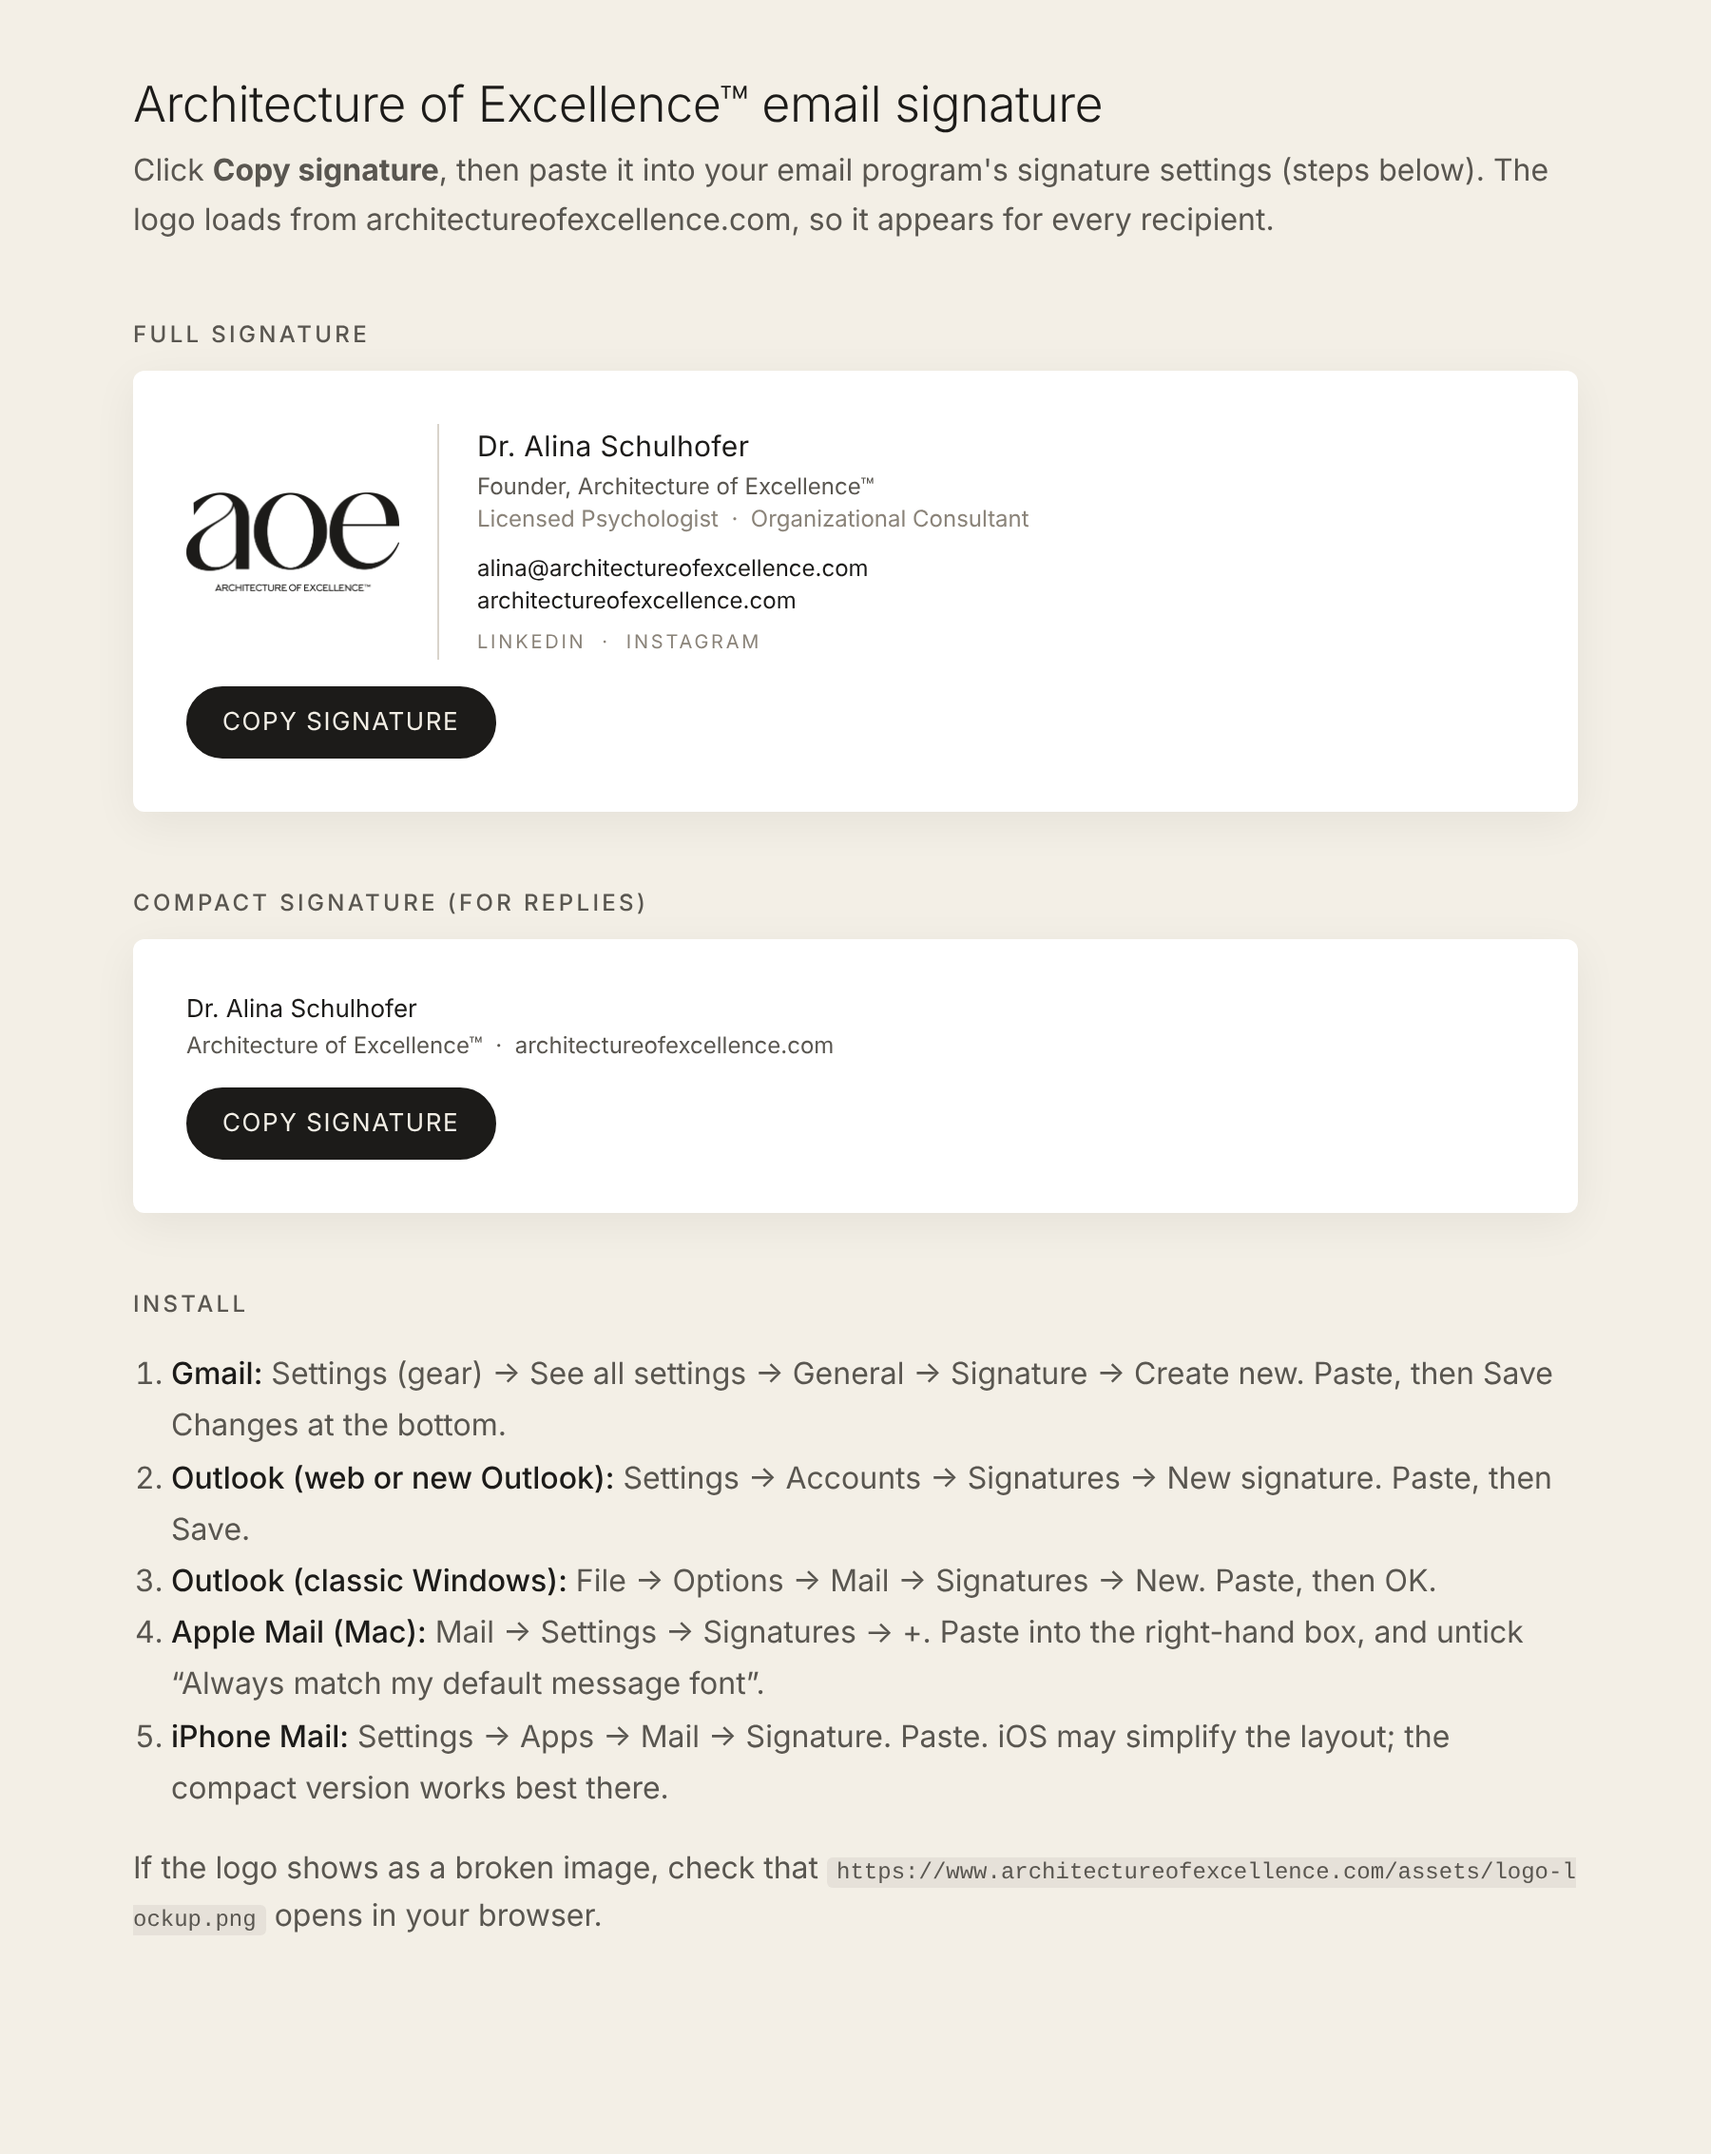
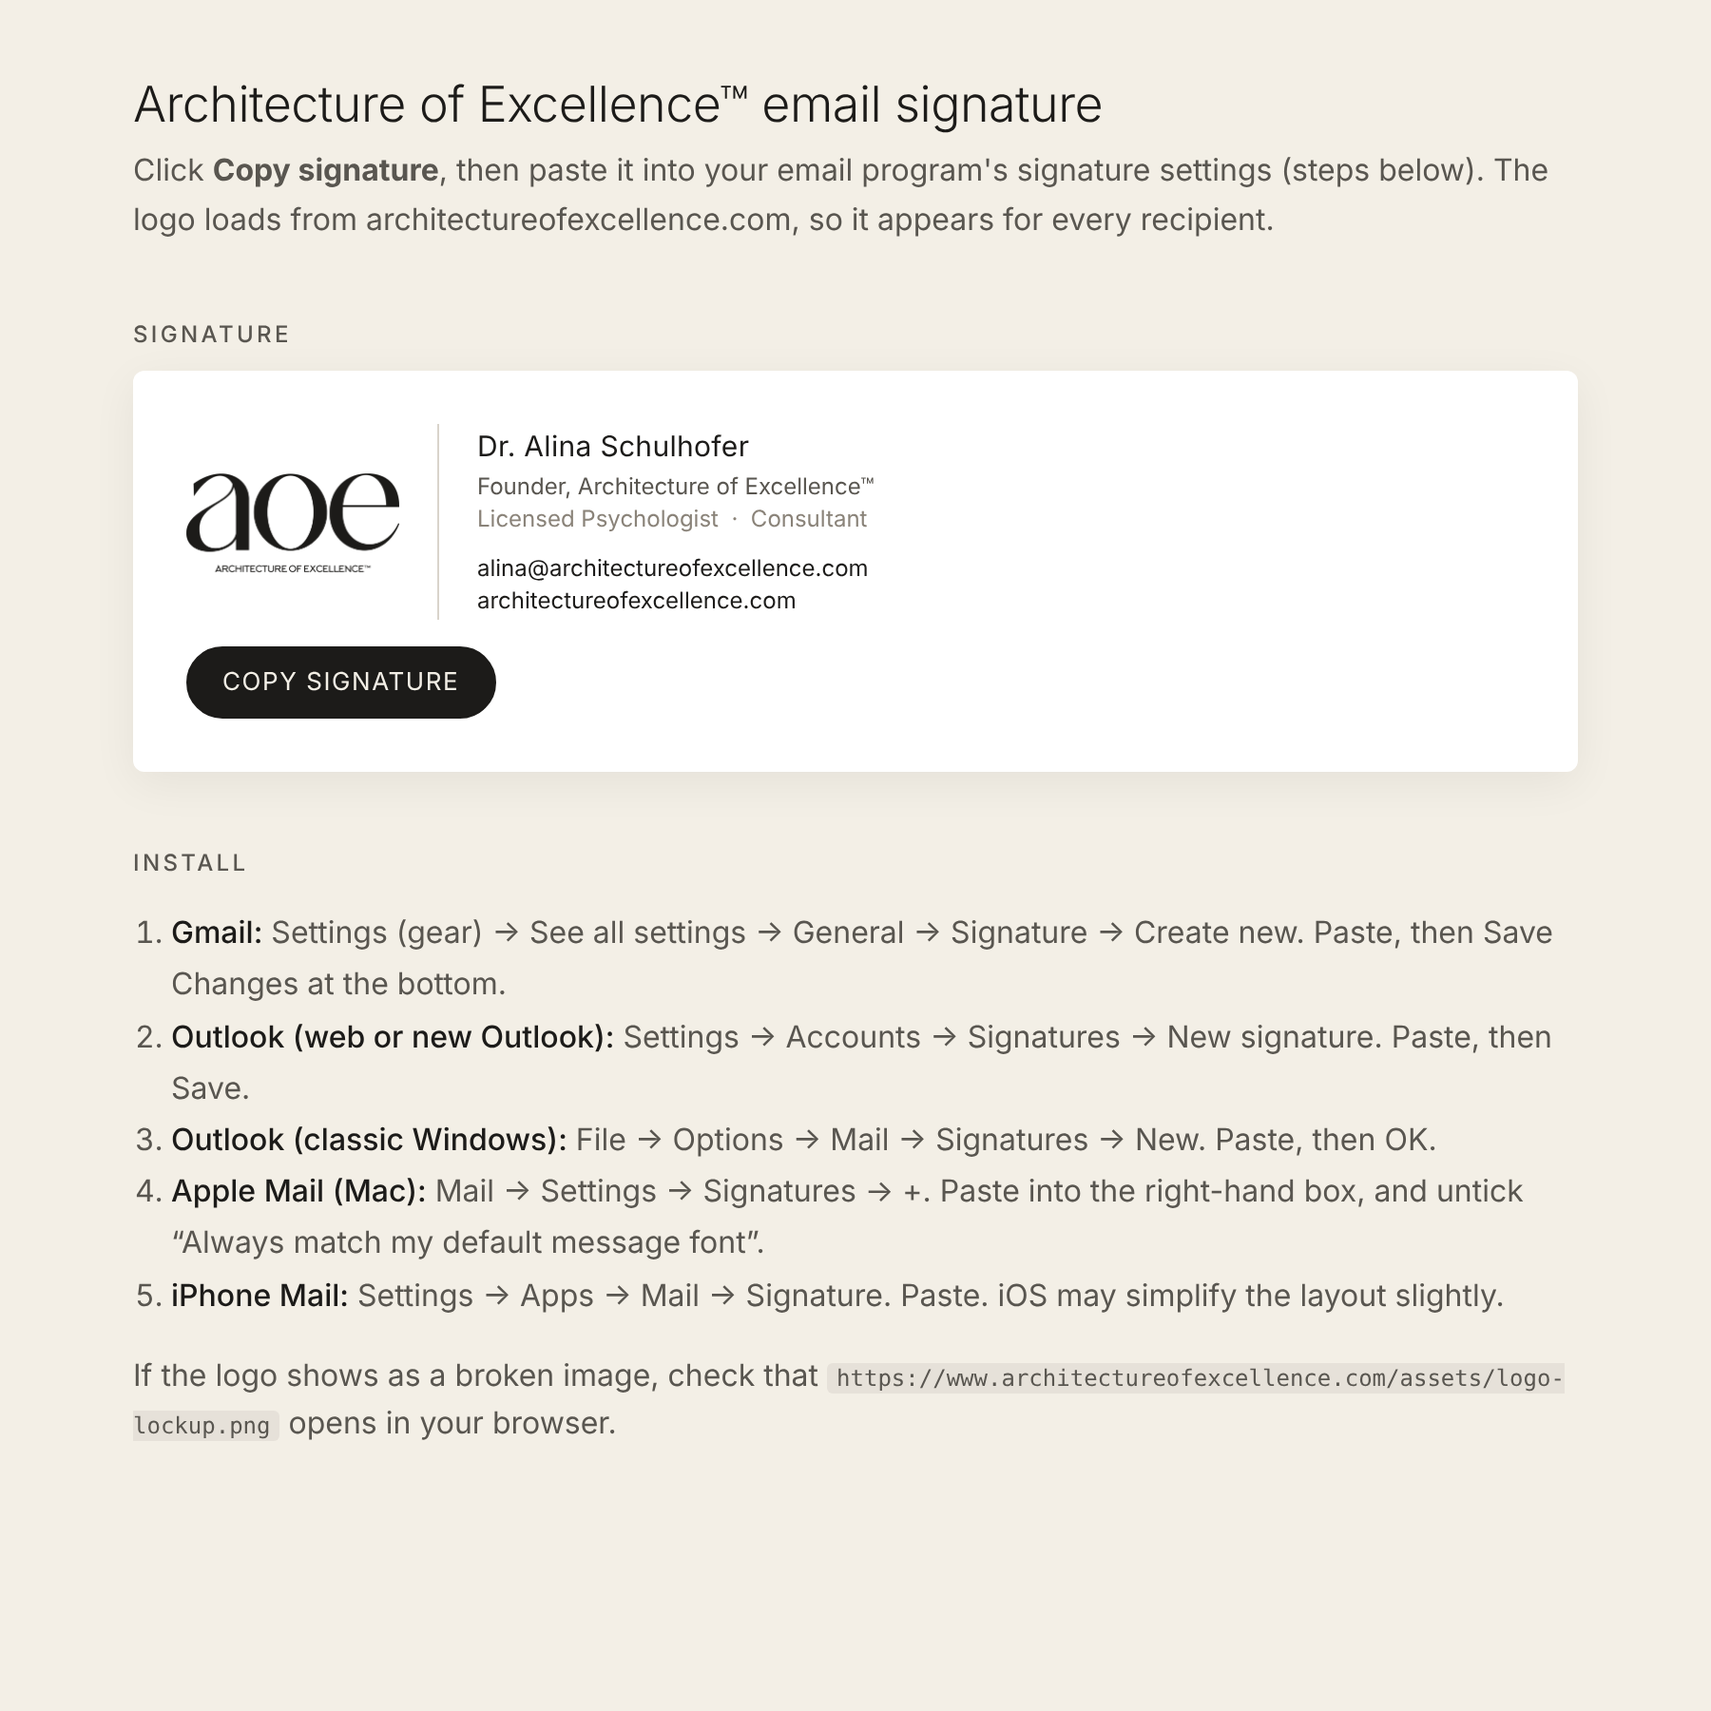
Email signature: simplify title, drop social links and compact version
Claude-Session: https://claude.ai/code/session_016XVBEBNhyuoZMVmUbvV6yP

Changed region(s): [[0.0622, 0.0311, 0.9333, 0.9022], [0.4044, 0.84, 0.4356, 0.8711]]

diff --git a/email-signature/index.html b/email-signature/index.html
@@ -28,7 +28,7 @@
   <h1>Architecture of Excellence™ email signature</h1>
   <p class="sub">Click <b>Copy signature</b>, then paste it into your email program's signature settings (steps below). The logo loads from architectureofexcellence.com, so it appears for every recipient.</p>
 
-  <h2>Full signature</h2>
+  <h2>Signature</h2>
   <div class="card">
     <div id="sig-full"><!-- SIGNATURE: full -->
 <table cellpadding="0" cellspacing="0" border="0" role="presentation" style="border-collapse:collapse;font-family:Manrope,'Helvetica Neue',Helvetica,Arial,sans-serif;color:#1C1B19;">
@@ -42,15 +42,12 @@
       <table cellpadding="0" cellspacing="0" border="0" role="presentation" style="border-collapse:collapse;">
         <tr><td style="padding:0 0 2px 0;font-size:15px;line-height:20px;font-weight:400;letter-spacing:.01em;color:#1C1B19;">Dr. Alina Schulhofer</td></tr>
         <tr><td style="padding:0;font-size:12px;line-height:17px;color:#595650;">Founder, Architecture of Excellence™</td></tr>
-        <tr><td style="padding:0 0 9px 0;font-size:12px;line-height:17px;color:#8A8379;">Licensed Psychologist&nbsp;&nbsp;·&nbsp;&nbsp;Organizational Consultant</td></tr>
+        <tr><td style="padding:0 0 9px 0;font-size:12px;line-height:17px;color:#8A8379;">Licensed Psychologist&nbsp;&nbsp;·&nbsp;&nbsp;Consultant</td></tr>
         <tr><td style="padding:0;font-size:12px;line-height:17px;color:#595650;">
           <a href="mailto:alina@architectureofexcellence.com" style="color:#1C1B19;text-decoration:none;">alina@architectureofexcellence.com</a>
         </td></tr>
-        <tr><td style="padding:0 0 7px 0;font-size:12px;line-height:17px;">
+        <tr><td style="padding:0;font-size:12px;line-height:17px;">
           <a href="https://www.architectureofexcellence.com" style="color:#1C1B19;text-decoration:none;">architectureofexcellence.com</a>
-        </td></tr>
-        <tr><td style="padding:0;font-size:10px;line-height:14px;letter-spacing:.14em;text-transform:uppercase;color:#8A8379;">
-          <a href="https://www.linkedin.com/in/dr-alina-k-schulhofer-34a017122" style="color:#8A8379;text-decoration:none;">LinkedIn</a>&nbsp;&nbsp;·&nbsp;&nbsp;<a href="https://www.instagram.com/dralinaschulhofer/" style="color:#8A8379;text-decoration:none;">Instagram</a>
         </td></tr>
       </table>
     </td>
@@ -60,16 +57,6 @@
     <div class="row"><button data-copy="sig-full">Copy signature</button><span class="status" aria-live="polite"></span></div>
   </div>
 
-  <h2>Compact signature (for replies)</h2>
-  <div class="card">
-    <div id="sig-compact"><!-- SIGNATURE: compact -->
-<table cellpadding="0" cellspacing="0" border="0" role="presentation" style="border-collapse:collapse;font-family:Manrope,'Helvetica Neue',Helvetica,Arial,sans-serif;">
-  <tr><td style="padding:0;font-size:13px;line-height:19px;color:#1C1B19;">Dr. Alina Schulhofer</td></tr>
-  <tr><td style="padding:0;font-size:12px;line-height:17px;color:#595650;">Architecture of Excellence™&nbsp;&nbsp;·&nbsp;&nbsp;<a href="https://www.architectureofexcellence.com" style="color:#595650;text-decoration:none;">architectureofexcellence.com</a></td></tr>
-</table>
-    <!-- /SIGNATURE --></div>
-    <div class="row"><button data-copy="sig-compact">Copy signature</button><span class="status" aria-live="polite"></span></div>
-  </div>
 
   <h2>Install</h2>
   <ol>
@@ -77,7 +64,7 @@
     <li><b>Outlook (web or new Outlook):</b> Settings → Accounts → Signatures → New signature. Paste, then Save.</li>
     <li><b>Outlook (classic Windows):</b> File → Options → Mail → Signatures → New. Paste, then OK.</li>
     <li><b>Apple Mail (Mac):</b> Mail → Settings → Signatures → +. Paste into the right-hand box, and untick “Always match my default message font”.</li>
-    <li><b>iPhone Mail:</b> Settings → Apps → Mail → Signature. Paste. iOS may simplify the layout; the compact version works best there.</li>
+    <li><b>iPhone Mail:</b> Settings → Apps → Mail → Signature. Paste. iOS may simplify the layout slightly.</li>
   </ol>
   <p class="sub">If the logo shows as a broken image, check that <code>https://www.architectureofexcellence.com/assets/logo-lockup.png</code> opens in your browser.</p>
 </main>
